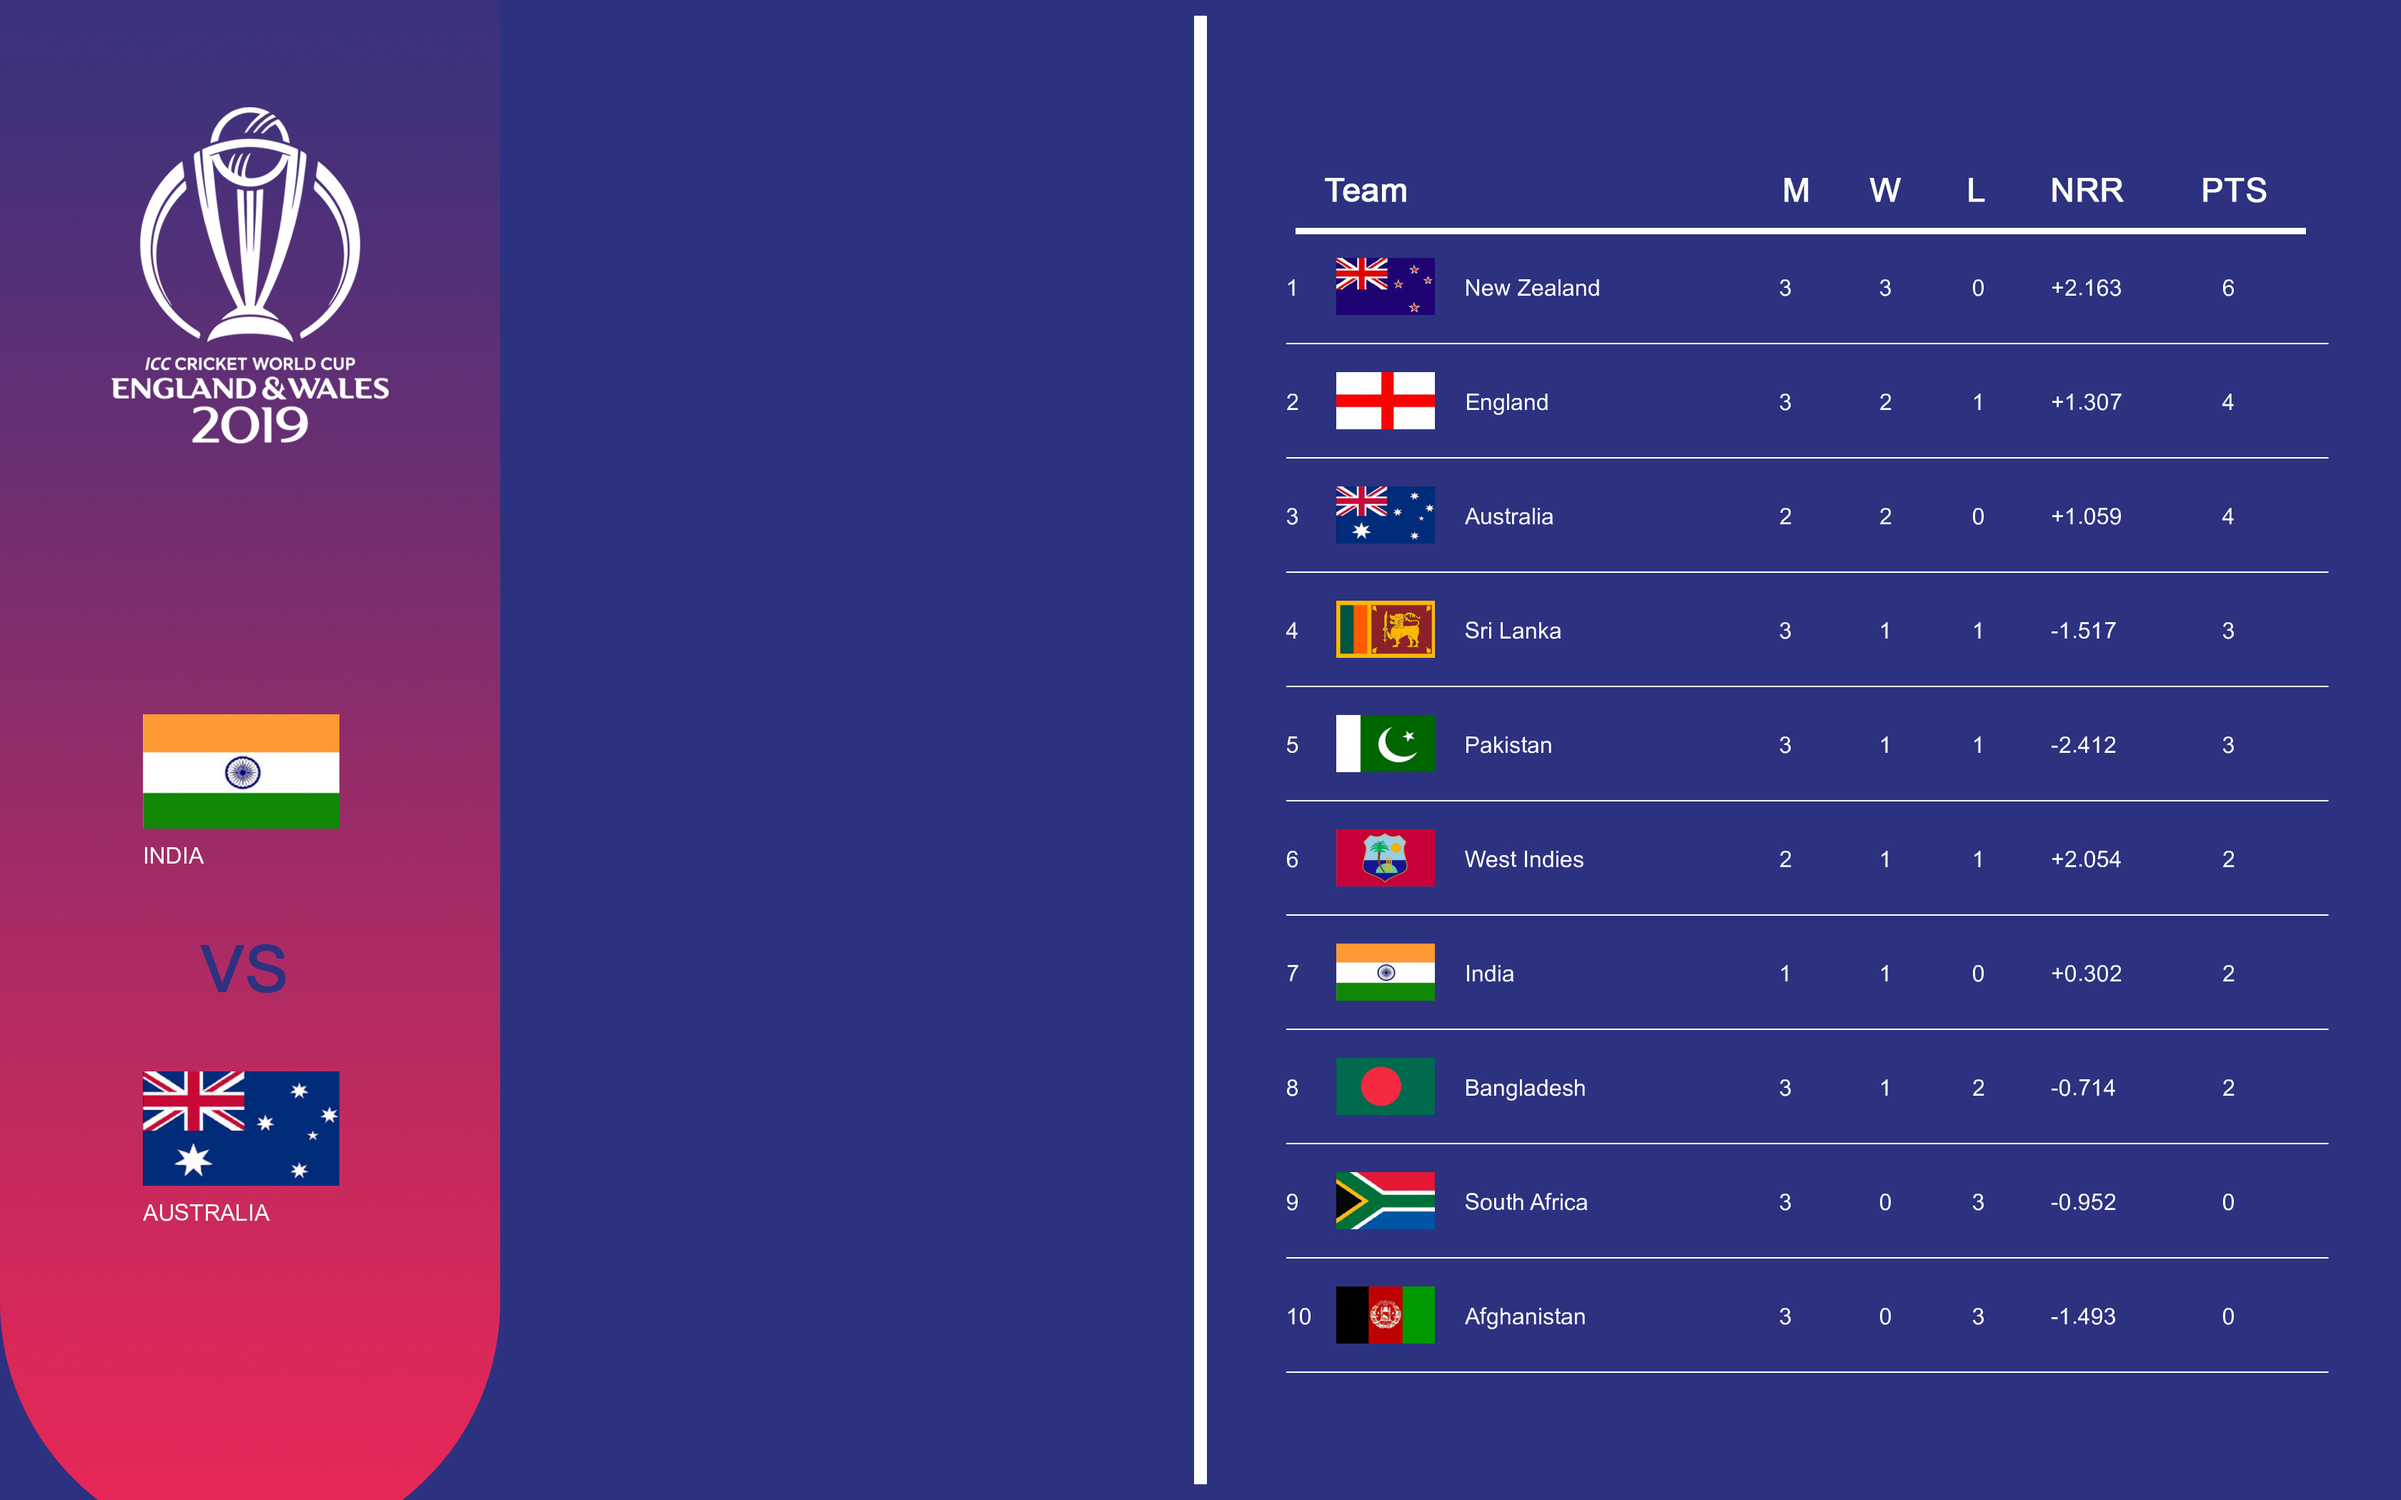
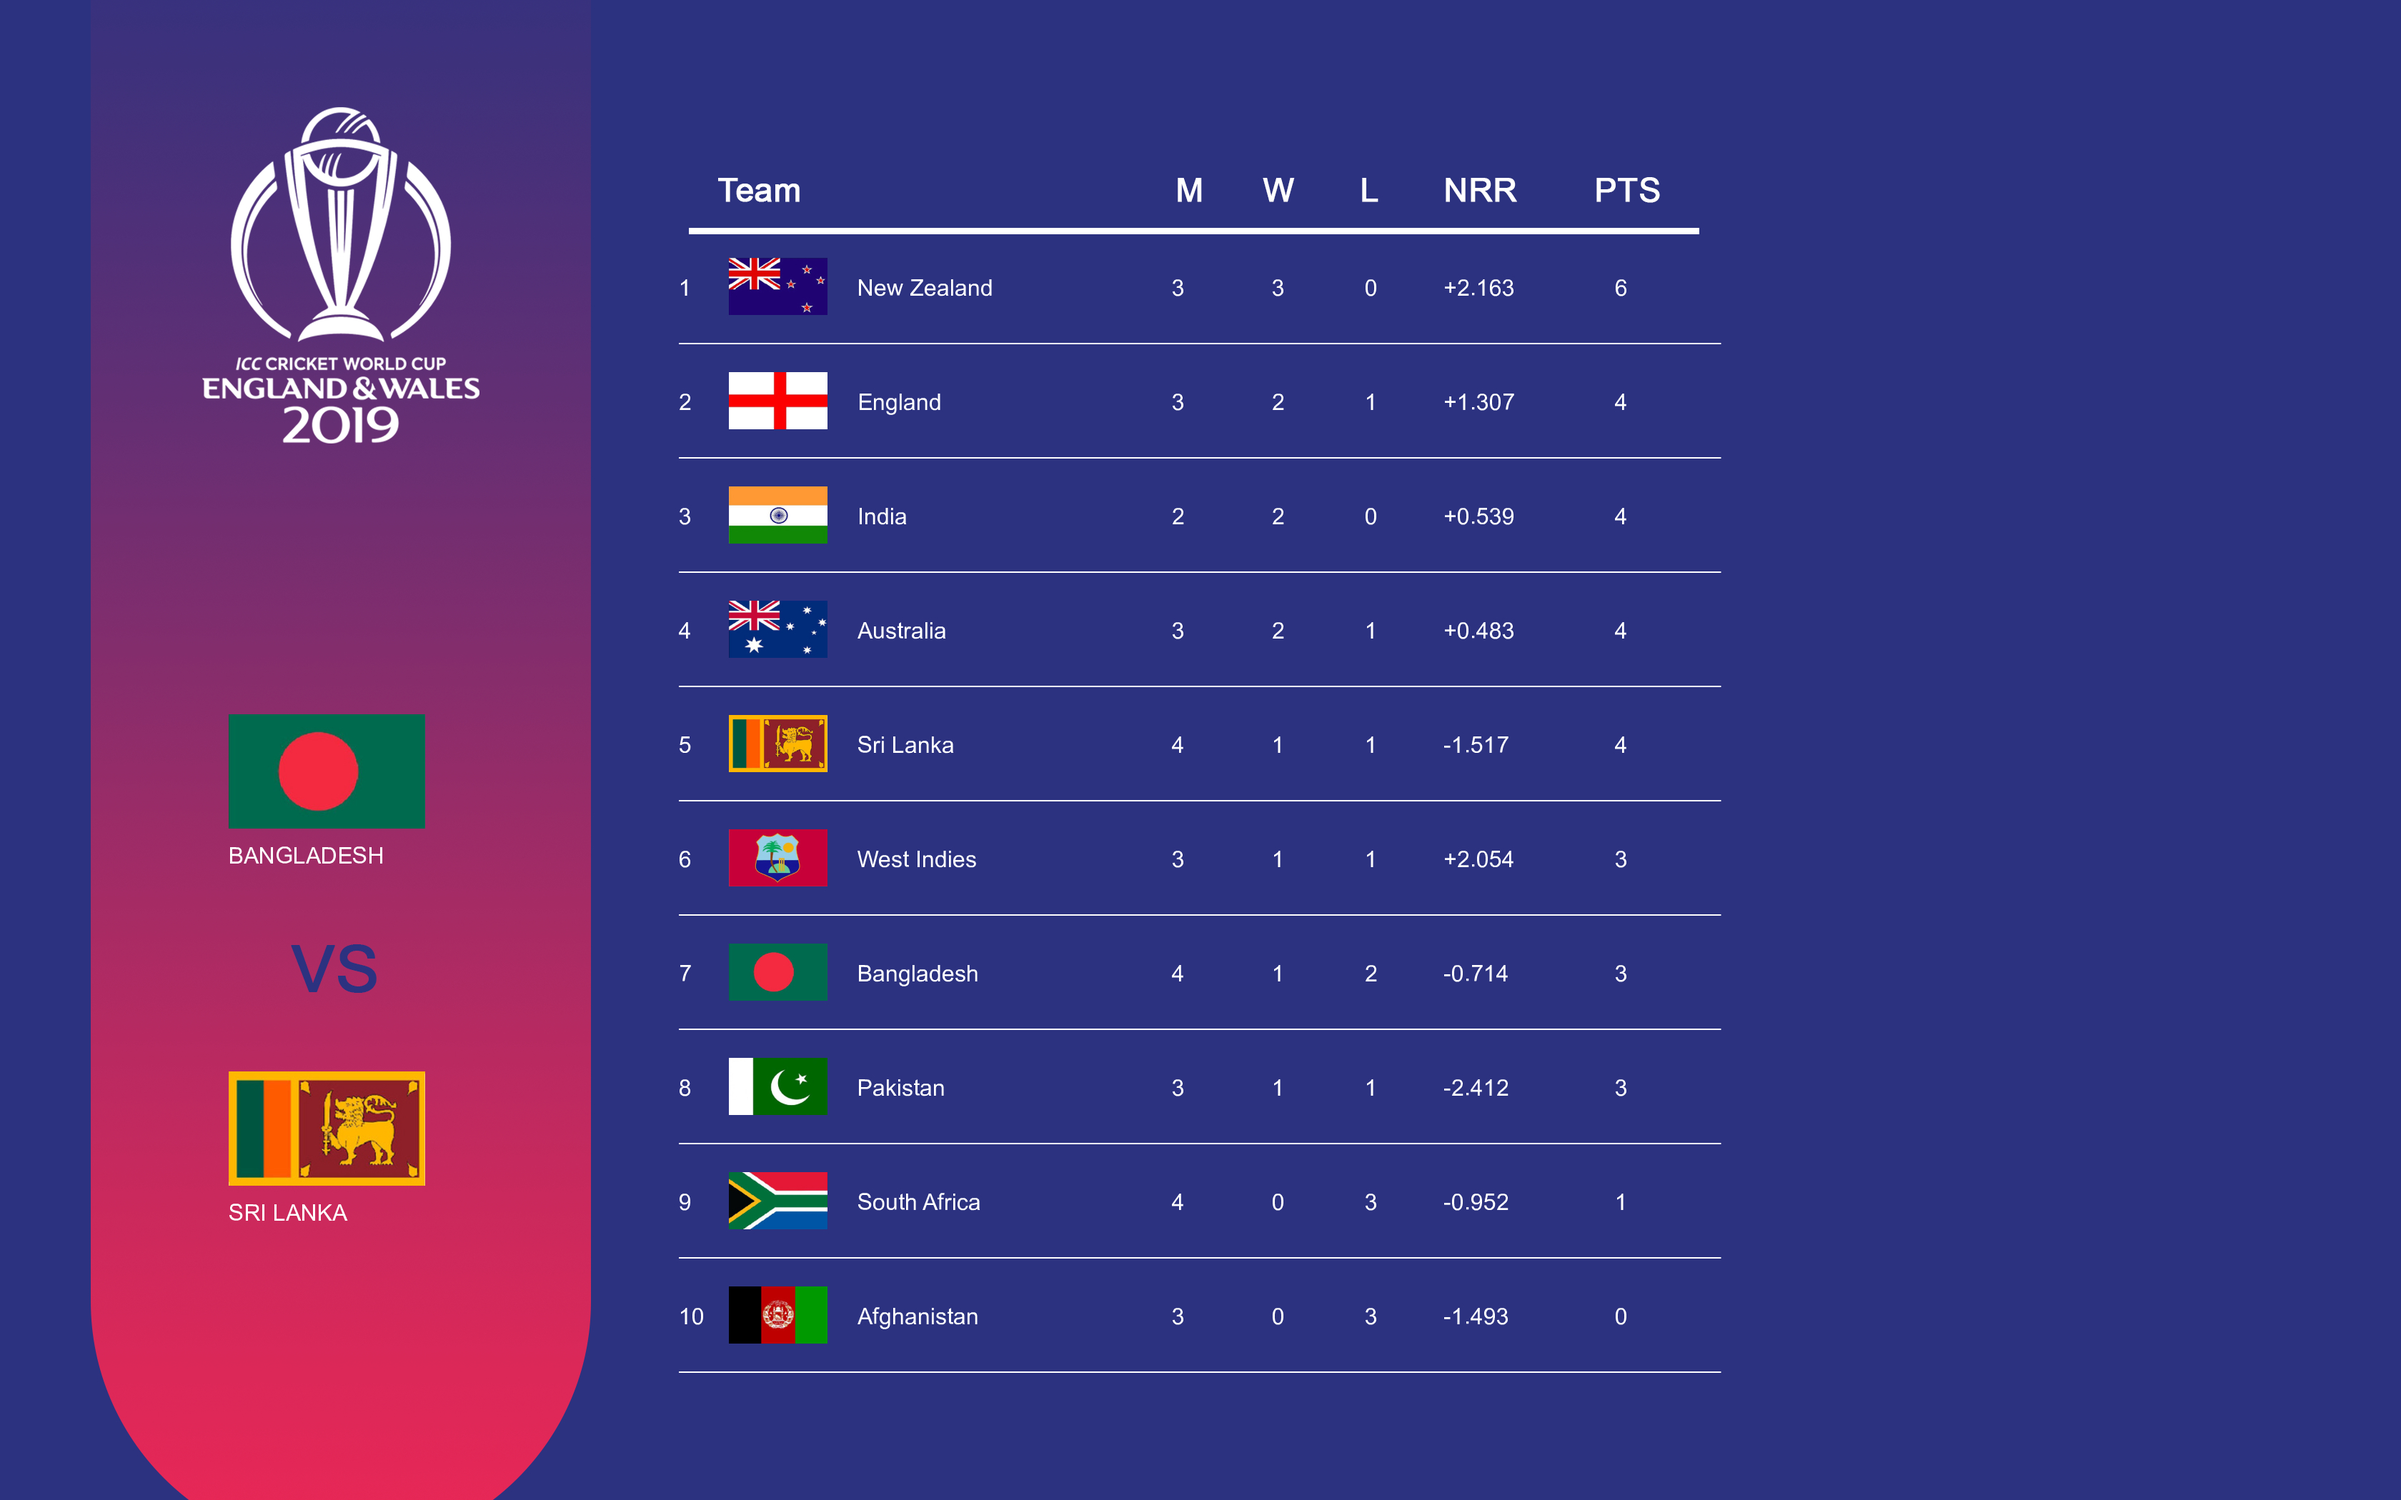
Layout change

diff --git a/main.js b/main.js
@@ -8,7 +8,9 @@ const { fixtures, months } = require('./constants')
 const removeExistingFile = process.platform === 'win32'
     ? 'del *.jpg'
     : 'rm -rf [0-9]*.jpg';
-const xList = [1870, 1800, 2050, 2490, 2630, 2760, 2870, 3110]
+// const xList = [1870, 1800, 2050, 2490, 2630, 2760, 2870, 3110]
+const xGap = [70, 0, 250, 690, 830, 960, 1070, 1310]
+const xList = xGap.map(xCord => xCord + 950)
 const file = `${new Date().getTime()}.jpg`;
 
 const nextMatch = async (image, font, matchList) => {
@@ -24,10 +26,10 @@ const nextMatch = async (image, font, matchList) => {
         match = todayMatches[0]
     const team1Logo = await Jimp.read(`./Assets/Logos/${match.team1.toLowerCase()}.jpg`)
     const team2Logo = await Jimp.read(`./Assets/Logos/${match.team2.toLowerCase()}.jpg`)
-    image.composite(team1Logo.resize(Jimp.AUTO, 160), 200, 1000)
-    image.print(font, 200, 1180, match.team1.toUpperCase())
-    image.composite(team2Logo.resize(Jimp.AUTO, 160), 200, 1500)
-    image.print(font, 200, 1680, match.team2.toUpperCase())
+    image.composite(team1Logo.resize(Jimp.AUTO, 160), 320, 1000)
+    image.print(font, 320, 1180, match.team1.toUpperCase())
+    image.composite(team2Logo.resize(Jimp.AUTO, 160), 320, 1500)
+    image.print(font, 320, 1680, match.team2.toUpperCase())
 }
 
 const writeRowForEachTeam = async (image, font, x, y, teamInfo) => {
